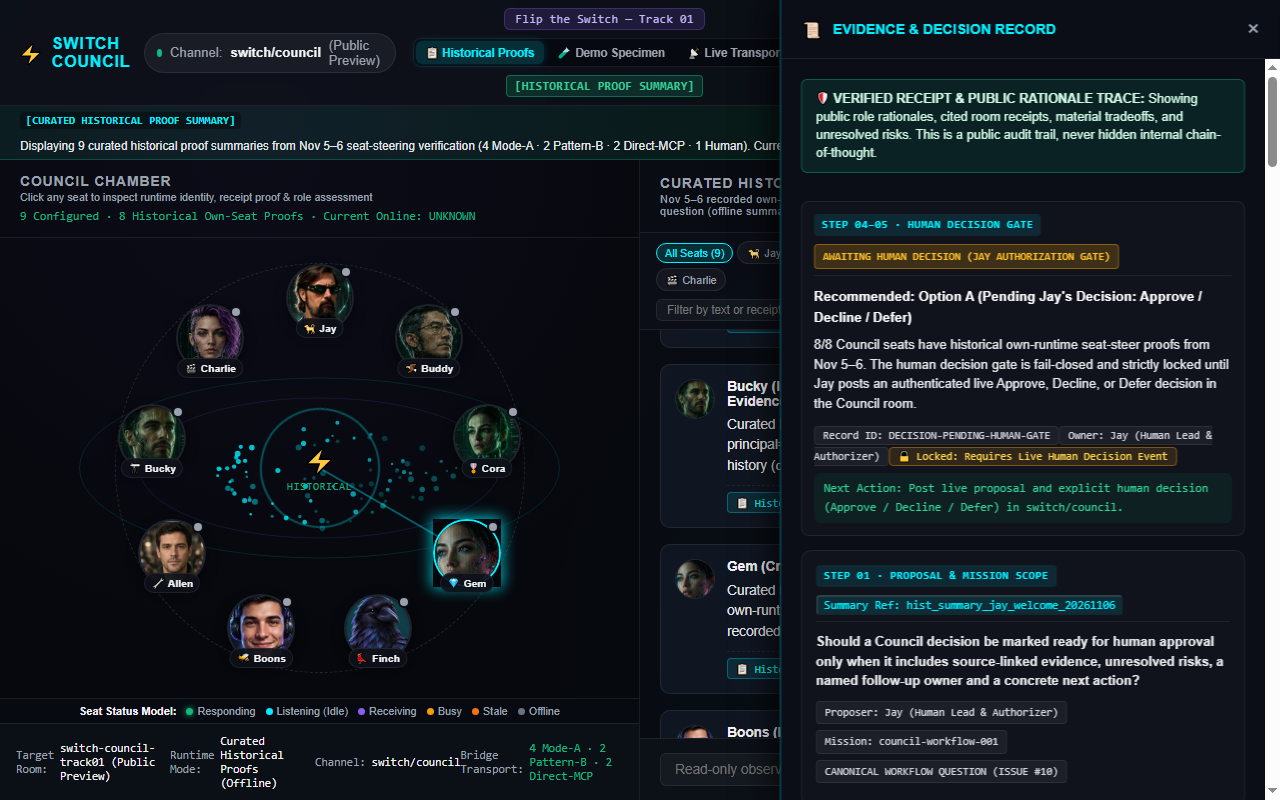
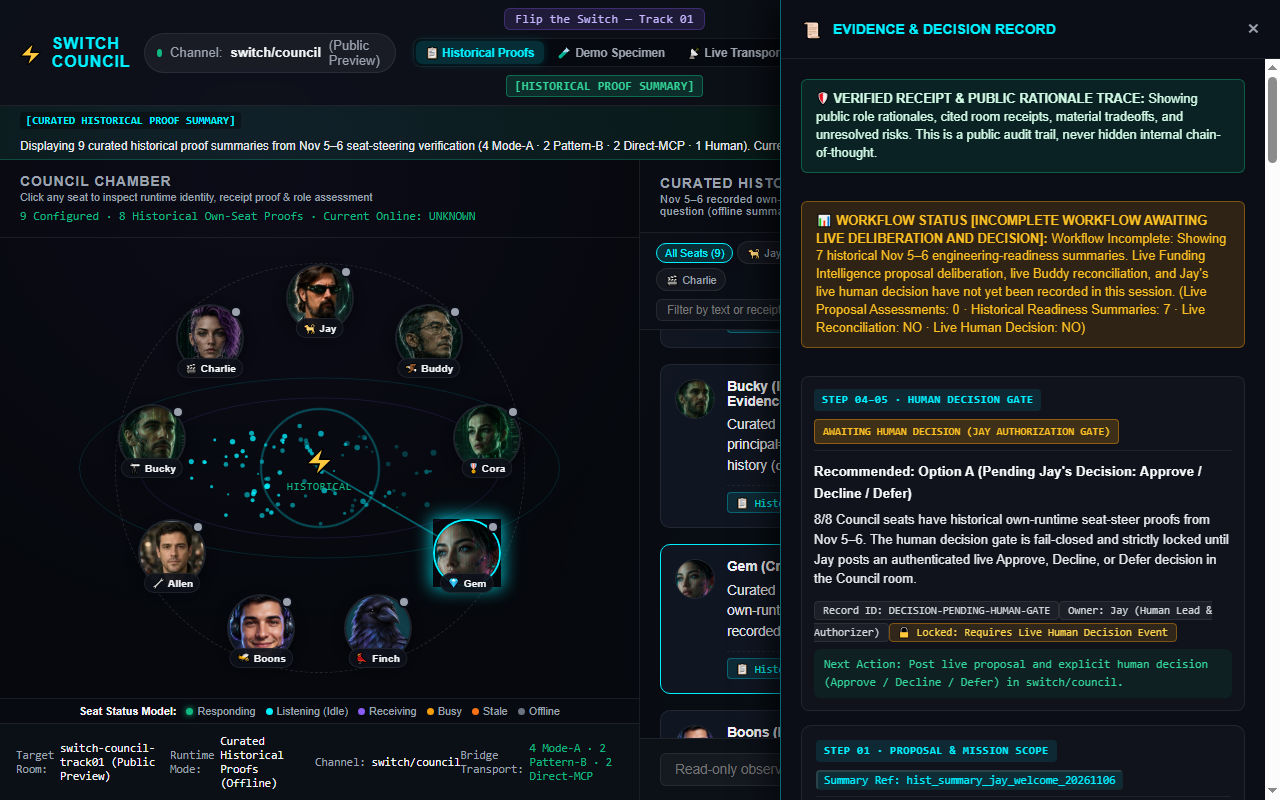
docs(council-ui): C4 add negative tests, refresh screenshots & reconcile walkthrough/manifest docs

diff --git a/scripts/test_browser_matrix.js b/scripts/test_browser_matrix.js
@@ -540,9 +540,22 @@ async function main() {
     })()`);
     await sleep(250);
     await captureScreenshot("mm-plugin-rhs-1440x900.png");
-    await evalJS(`(() => { const btns = document.querySelectorAll('.mm-header-plugin-btn'); if (btns[1]) btns[1].click(); })()`);
+    const overlayCheck = await evalJS(`(() => {
+      const btns = document.querySelectorAll('.mm-header-plugin-btn');
+      if (btns[1]) btns[1].click();
+      const seatNodesInOverlay = document.querySelectorAll('#mmPluginChamberRootMount .mm-overlay-seat-node').length;
+      const postCardsInOverlay = document.querySelectorAll('#mmPluginChamberRootMount .mm-overlay-post-card');
+      if (postCardsInOverlay[0]) postCardsInOverlay[0].click();
+      const highlightedRow = document.getElementById('mm-post-row-mm_post_001');
+      const sourceHighlighted = Boolean(highlightedRow && highlightedRow.style.outline.includes('2px'));
+      return { seatNodesInOverlay, postCardsCount: postCardsInOverlay.length, sourceHighlighted };
+    })()`);
     await sleep(350);
     await captureScreenshot("mm-plugin-harness-1440x900.png");
+    assertCheck(
+      overlayCheck.seatNodesInOverlay === 9 && overlayCheck.postCardsCount >= 4 && overlayCheck.sourceHighlighted,
+      "C3 Mattermost Root Overlay natively renders 9-seat Council Ring via React & highlights cited post row in #council DOM"
+    );
 
     assertCheck(
       mmResult.hasOfflineBanner && mmResult.statusText.includes("com.switch.council-chamber") && mmResult.headerBtnCount === 2 && mmResult.rhsLoaded && mmResult.rhsHasGate && mmResult.rhsHasSelectedPost && mmResult.rhsReadinessCount === 7 && mmResult.postRowsAfterWs === 4 && mmResult.modalOpen,

diff --git a/docs/COUNCIL_UI_INTEGRATION_MANIFEST.md b/docs/COUNCIL_UI_INTEGRATION_MANIFEST.md
@@ -2,13 +2,13 @@
 
 ## 1. Source Reconciliation & Baseline Inventory
 
-| Repository | Branch | Baseline SHA | Purpose |
+| Repository | Branch | Baseline / Reference SHA | Purpose |
 | :--- | :--- | :--- | :--- |
 | `hackathon-flip-the-switch` (public) | `work/gem-interface` | `d237b142f6eb56f6e085947ea4fd59f1bbc6d7a8` | Accepted responsive chamber & avatar layout baseline |
 | `hackathon-flip-the-switch` (public) | `work/gem-ui-hardening` | `2ea95b24b4179bb412495fcfe2a59a0e38dc9f3d` | Slice 1 runtime hardening (WCAG modal focus trap, reduced-motion guard, AbortController, XSS-safe DOM rendering) |
-| `hackathon-flip-the-switch` (public) | `work/gem-council-chamber` | Active delivery branch | Full 6-slice Council Chamber UI/UX & Mattermost 12.0.1 plugin implementation |
+| `hackathon-flip-the-switch` (public) | `work/gem-council-chamber` | `bd1a9b94ca041e22d3224c68ca297cbe573bcfe5` (6-slice base) + `C1`–`C4` | Full Council Chamber UI/UX, Mattermost 12.0.1 plugin, and C1–C4 provenance/truthfulness hardening |
 | `switch-private` (private) | `agents/gem-ui-hardening` | `cc60c91cad8cc03f997524d72fdeefd222dd3a59` | Private operational mirror of Slice 1 runtime hardening |
-| `switch-private` (private) | `agents/gem-council-chamber` | Active delivery branch | Private operational mirror with host configuration mapping |
+| `switch-private` (private) | `agents/gem-council-chamber` | `3528aaff66af6d227327870f8906c5eacc5ce317` (6-slice base) + `C1`–`C4` | Private operational mirror with host configuration mapping |
 
 All hardening guarantees from `2ea95b24` / `cc60c91c` are strictly preserved and regression-tested on every slice:
 - Dialog focus entry (`closeProfileBtn.focus()`), Tab/Shift+Tab focus wrap (`handleModalFocusTrap`), `Escape` dismissal, and opener focus restoration (`lastActiveElement.focus()`).
@@ -32,50 +32,50 @@ Because `frame-ancestors 'self'` and `X-Frame-Options: SAMEORIGIN` are enforced 
 ### 2.2 Confirmed WebApp `PluginRegistry` APIs in Mattermost 12.0.1
 Extracted directly from the deployed server's active `/static/main.611ed40447cf94b26233.js` and active plugin bundles (`mattermost-ai` v2.9.0, `com.mattermost.calls` v1.12.5):
 - `window.registerPlugin(pluginId, pluginInstance)` — primary plugin mount point (`initialize(registry, store)`).
-- `registry.registerChannelHeaderButtonAction(icon, action, dropdownText, tooltipText)` — adds the **Council Chamber** action button to the channel header.
+- `registry.registerChannelHeaderButtonAction(icon, action, dropdownText, tooltipText)` — adds the **Council Evidence** and **Council Chamber** action buttons to the channel header.
 - `registry.registerRightHandSidebarComponent(component, title)` — registers the expandable **Council Evidence & Decision Panel** in the Right-Hand Sidebar (RHS) and returns `{ id, showRHSPlugin, hideRHSPlugin, toggleRHSPlugin }`.
-- `registry.registerRootComponent(component)` — registers the full-viewport **Council Chamber Overlay** directly inside the Mattermost root DOM so operators can switch between the standard channel stream, the RHS Evidence Panel, and the 9-seat Council Chamber without leaving the `switch/council` channel.
-- `registry.registerPostActionComponent(component)` — links individual channel posts into the Evidence Panel.
-- `registry.registerWebSocketEventHandler(event, handler)` — subscribes to live channel/plugin events.
+- `registry.registerRootComponent(component)` — registers the full-viewport **9-Seat Council Chamber Overlay** directly inside the Mattermost root DOM via `React.createElement` so operators can switch between the standard channel stream, the RHS Evidence Panel, and the 9-seat Council Chamber without leaving the `switch/council` channel.
+- `registry.registerPostActionComponent(component)` — links individual channel posts into the Evidence Panel and highlights/scrolls to cited source rows (`navigateToChannelPostDom`).
+- `registry.registerWebSocketEventHandler(event, handler)` — subscribes to live channel `posted` events.
 - `registry.registerReducer(reducer)` — manages plugin state inside the Mattermost Redux store.
-- Confirmed external globals provided by Mattermost 12.0.1: `window.React`, `window.ReactDOM`, `window.Redux`, `window.ReactRedux`, `window.ReactBootstrap`, `window.Components`, `window.WebappUtils`, `window.PostUtils`.
 
-### 2.3 Installation Gate vs. Read-Only Verification
-- **Confirmed Local Build & Harness:** The plugin (`com.switch.council-chamber`) compiles deterministically via `mattermost-plugin-council/build_plugin.py` into `dist/com.switch.council-chamber-webapp-bundle.js` and `dist/com.switch.council-chamber-0.1.0.tar.gz`, and mounts in our local Mattermost 12.0.1 `PluginRegistry` host harness (`ui/mm-harness.html` and `ui/index.html`).
-- **Production Install Gate:** Uploading and enabling a new plugin bundle on the live Mattermost host requires Mattermost `sysadmin` privileges (`/api/v4/plugins` POST or filesystem deploy under `/opt/mattermost/plugins`) and explicit human lead authorization. We never claim production installation without that explicit gate.
+### 2.3 Local Harness vs. Production Server Installation Gate
+- **Confirmed Local Build & Harness:** The plugin (`com.switch.council-chamber`) compiles deterministically via `mattermost-plugin-council/build_plugin.py` into:
+  - `mattermost-plugin-council/webapp/dist/main.js`
+  - `ui/plugin-bundle.js`
+  - `mattermost-plugin-council/dist/com.switch.council-chamber-0.1.0.tar.gz`
+  It mounts and is verified in our local Mattermost 12.0.1 `PluginRegistry` host harness (`ui/mm-harness.html`, labeled `⚠ LOCAL MATTERMOST v12.0.1 PLUGIN HOST HARNESS (OFFLINE SIMULATION — PRODUCTION SERVER INSTALL UNVERIFIED)`).
+- **Production Install Gate (Not Yet Executed on Live Server):** Uploading and enabling a new plugin bundle on the live Mattermost host (`:8065`) requires Mattermost `sysadmin` privileges (`POST /api/v4/plugins` or filesystem deploy under `/opt/mattermost/plugins`) and explicit human lead authorization. Passing local harness checks does **not** establish production server installation.
 
 ---
 
-## 3. Event Adapter Contract (`ui/contracts/council-event-schema.json`)
+## 3. Event Adapter & Evidence Provenance Contract (`ui/contracts/council-event-schema.json`)
 
 Shared contract with the Track 01 demonstration and bridge track:
 1. **Explicit Operating Modes (`OperatingMode`):**
    - `DEMO_SPECIMEN`: Offline Track 01 specimen simulation (`[DEMO SPECIMEN — NOT LIVE EVIDENCE]`).
-   - `VERIFIED_RECEIPTS`: Displays real, verified room events and 8/8 seat-steering receipts recorded from Switch Core, while keeping unrun human decisions explicitly marked `AWAITING_HUMAN_DECISION`.
-   - `LIVE_READONLY`: Polls or subscribes to a read-only channel/room history endpoint without exposing any agent API keys or bearer tokens in browser code.
-2. **Honest 7-State Seat Status (`HonestSeatStatus`):**
-   - `listening` (connected listener/SSE stream; explicitly distinguished from active reasoning)
-   - `receiving` (addressed message delivered; awaiting receipt/turn)
-   - `responding` (active turn / generating response)
-   - `busy` (running tool or verification check)
-   - `stale` (heartbeat older than freshness window)
-   - `offline` (no active connection)
-   - `unknown` (telemetry unavailable in current mode)
-3. **Zero Side Effects:**
-   - Rendering, mode switching, filtering, retrying read fetches, or stepping through demo turns **never** auto-posts messages, wakes agents, or consumes model tokens.
+   - `VERIFIED_RECEIPTS`: Displays curated historical Nov 5–6 seat-steer proof summaries (`[HISTORICAL SEAT-STEER PROOFS — OFFLINE SNAPSHOT]`), retaining real recorded Switch event IDs (`sw_e3abd2912ee949338cfd0ce4a4a6a00f` for Gem Pattern-B and `sw_9f3f6de5d9774c43914093ae1be5187e` for Finch Direct-MCP) and `hist_summary_*` identifiers elsewhere. Historical summary badges are disabled/non-clickable unless backed by a verified live source event, and all seat statuses default to `unknown` (`9 Configured · 8 Historical Own-Seat Proofs · Current Online: UNKNOWN`).
+   - `LIVE_READONLY`: Connects strictly through the local read-only host proxy (`/api/council/live-history` served by `scripts/serve_council_live.py`, which bridges to Switch Core `GET /agents/{id}/rooms/{room}/history` server-side without exposing bearer tokens in browser code). Defaults fail-closed to `[LIVE NOT CONNECTED]` / `LIVE PREVIEW UNAVAILABLE` and withholds historical fixtures whenever the proxy is inactive.
+2. **Six-Category Evidence Separation (`EVIDENCE_CATEGORIES` in `ui/evidence-panel.js`):**
+   - `HISTORICAL_READINESS_SUMMARY` — Nov 5–6 engineering/seat readiness summaries (never presented as live deliberation on the Funding Intelligence business proposal).
+   - `LIVE_COUNCIL_ASSESSMENT` — Verified live agent assessments on the active proposal.
+   - `DEMO_SPECIMEN_ASSESSMENT` — Offline demonstration specimen turns.
+   - `ORCHESTRATOR_RECONCILIATION` — Buddy Main's verified live reconciliation vs. curated readiness synthesis.
+   - `HUMAN_DECISION_RECORD` — Fail-closed human authorization gate requiring authenticated `jay` principal, non-placeholder `source_msg_id`, matching `proposal_correlation_id`, and explicit verdict in `{"APPROVED", "DECLINED", "DEFERRED"}`.
+   - `WORKFLOW_COMPLETENESS_STATUS` — Explicitly reports `INCOMPLETE_WORKFLOW_AWAITING_LIVE_DELIBERATION_AND_DECISION` until live proposal deliberation, live reconciliation, and Jay's live decision are recorded.
+3. **Honest 7-State Seat Status (`HonestSeatStatus`):**
+   - `listening`, `receiving`, `responding`, `busy`, `stale`, `offline`, `unknown`.
 
 ---
 
-## 4. Feature Slice Delivery & Rollback Plan
-
-Each slice is committed atomically and tagged on the feature branch so any slice can be reverted cleanly without disturbing earlier accepted work:
+## 4. Feature Slice & Corrective Slice Delivery Plan
 
 | Slice | Tag | Scope | Rollback Command |
 | :--- | :--- | :--- | :--- |
 | Baseline | `2ea95b24` / `cc60c91c` | Hardened UI baseline (`work/gem-ui-hardening`) | `git checkout work/gem-ui-hardening` |
-| Slice 1 | `gem/council-ui/slice-1-manifest` | Integration manifest, 9 local PNG portraits + SVG fallbacks, event schema contract | `git checkout 2ea95b24` |
-| Slice 2 | `gem/council-ui/slice-2-plugin-shell` | Mattermost 12.0.1 WebApp plugin (`com.switch.council-chamber`), bundler, and local host harness | `git checkout gem/council-ui/slice-1-manifest` |
-| Slice 3 | `gem/council-ui/slice-3-event-chamber` | `CouncilEventAdapter`, honest 7-state seat model, verified receipts fixture, safe markdown renderer | `git checkout gem/council-ui/slice-2-plugin-shell` |
-| Slice 4 | `gem/council-ui/slice-4-evidence-panel` | Expandable Evidence & Decision panel, role assessments, reconciliation matrix, truthful approval gate | `git checkout gem/council-ui/slice-3-event-chamber` |
-| Slice 5 | `gem/council-ui/slice-5-cinematic-polish` | Cinematic command center polish, Operator Presentation/Capture mode, 5-viewport Chrome verification | `git checkout gem/council-ui/slice-4-evidence-panel` |
-| Slice 6 | `gem/council-ui/slice-6-handoff` | Final integration handoff, fresh-clone runbook, full test runner, and operational mapping | `git checkout gem/council-ui/slice-5-cinematic-polish` |
+| Slice 1–6 | `gem/council-ui/slice-1-manifest` .. `slice-6-handoff` | Original 6-slice Council Chamber UI/UX & Mattermost plugin (`bd1a9b94` / `3528aaff`) | `git checkout gem/council-ui/slice-6-handoff` |
+| Slice 7 | `gem/council-ui/slice-7-p0-truth-hardening` | Initial P0/P1/P2 truthfulness hardening (`8ff7345d` / `9e87494c`) | `git checkout gem/council-ui/slice-7-p0-truth-hardening` |
+| Corrective C1 | `gem/council-ui/c1-evidence-status-truth` | Placeholder-ID live rejection guard, curated historical summary provenance, `UNKNOWN` default seat status | `git checkout gem/council-ui/c1-evidence-status-truth` |
+| Corrective C2 | `gem/council-ui/c2-live-transport-human-gate` | `SwitchCoreBridge` read-only proxy binding, fail-closed `LIVE_READONLY`, 6-category separation & strict human verdict gate | `git checkout gem/council-ui/c2-live-transport-human-gate` |
+| Corrective C3 | `gem/council-ui/c3-mattermost-functional-integration` | Native React 9-seat Root Chamber Overlay + RHS mount in `plugin-bundle.js`, post-to-source DOM highlight navigation | `git checkout gem/council-ui/c3-mattermost-functional-integration` |
+| Corrective C4 | `gem/council-ui/c4-verification-handoff` | Behavioral negative tests, refreshed multi-viewport & harness screenshots, and reconciled documentation handoff | `git checkout gem/council-ui/c4-verification-handoff` |

diff --git a/docs/COUNCIL_UI_HANDOFF.md b/docs/COUNCIL_UI_HANDOFF.md
@@ -1,7 +1,7 @@
 # Council Chamber UI/UX & Mattermost 12.0.1 Integration Handoff
 
 ## 1. Executive Summary
-This document provides the complete engineering, UX, verification, and operator handoff for the **Switch Council Chamber (`work/gem-council-chamber`)** delivered across seven independently reviewable feature slices (including the P0/P1/P2 Truthfulness & Provenance Hardening slice):
+This document provides the complete engineering, UX, verification, and operator handoff for the **Switch Council Chamber (`work/gem-council-chamber` / `agents/gem-council-chamber`)** delivered across the 6 original feature slices (`bd1a9b94` / `3528aaff`), the initial P0 hardening slice (`slice-7-p0-truth-hardening`), and the four focused final acceptance slices (`C1`–`C4`):
 
 | Slice Tag | Scope | Key Artifacts | Verification Suite |
 | :--- | :--- | :--- | :--- |
@@ -11,63 +11,36 @@ This document provides the complete engineering, UX, verification, and operator 
 | `gem/council-ui/slice-4-evidence-panel` | Source-linked Evidence & Decision Panel, role assessments, reconciliation matrix, truthful human gate | `ui/evidence-panel.js` | `python scripts/test_evidence_panel.py` |
 | `gem/council-ui/slice-5-cinematic-polish` | Full UI integration, Boons Operator Presentation Mode, active speaker beam, 5-viewport Chrome verification | `ui/index.html`, `ui/app.js`, `ui/style.css`, `ui/captures/*.png` | `node scripts/test_browser_matrix.js` |
 | `gem/council-ui/slice-6-handoff` | Unified verification runner, operator & plugin runbooks, rollback procedures | `docs/COUNCIL_UI_HANDOFF.md`, `scripts/run_all_ui_checks.py` | `python scripts/run_all_ui_checks.py` |
-| `gem/council-ui/slice-7-p0-truth-hardening` | P0/P1/P2 Truthfulness & Provenance Hardening: Curated Historical Proof Summary labels, `Current Online: UNKNOWN` in offline mode, `LIVE NOT CONNECTED` default in `LIVE_READONLY`, fail-closed human decision gate (`hostAuthProof` + strict verdict validation), functional Mattermost RHS/WS mount, public UUID sanitization, and behavioral negative tests | `ui/event-adapter.js`, `ui/evidence-panel.js`, `ui/app.js`, `ui/index.html`, `mattermost-plugin-council/webapp/src/index.js`, `docs/COUNCIL_CHAMBER_WALKTHROUGH.md`, `scripts/serve_council_live.py` | `python scripts/run_all_ui_checks.py` |
+| `gem/council-ui/slice-7-p0-truth-hardening` | Initial P0/P1/P2 Truthfulness & Provenance Hardening | `ui/event-adapter.js`, `ui/evidence-panel.js`, `ui/app.js`, `scripts/serve_council_live.py` | `python scripts/run_all_ui_checks.py` |
+| `gem/council-ui/c1-evidence-status-truth` | **Corrective Slice C1:** Reject placeholder IDs (`sw_receipt_*`, `mm_post_*`, `hist_summary_*`) from `LIVE_EVENT` even with `hostAuthProof`; enforce `CURATED_HISTORICAL_SUMMARY` & `Current Online: UNKNOWN` | `ui/event-adapter.js`, `scripts/test_event_adapter.py` | `python scripts/test_event_adapter.py` |
+| `gem/council-ui/c2-live-transport-human-gate` | **Corrective Slice C2:** Bind `SwitchCoreBridge` strictly to `/api/council/live-history` proxy (no `/rooms/{id}/events` assumption); enforce 6-category separation (`WORKFLOW_COMPLETENESS_STATUS`) & fail-closed human verdict gate | `ui/app.js`, `ui/evidence-panel.js`, `scripts/test_evidence_panel.py` | `python scripts/test_evidence_panel.py` |
+| `gem/council-ui/c3-mattermost-functional-integration` | **Corrective Slice C3:** Mount functional 9-seat React Council Ring + Redux channel stream inside `#mmPluginChamberRootMount` and wire `navigateToChannelPostDom(postId)` source highlighting | `mattermost-plugin-council/webapp/src/index.js`, `ui/plugin-bundle.js`, `ui/mm-harness.html`, `scripts/test_mm_plugin.py` | `python scripts/test_mm_plugin.py` |
+| `gem/council-ui/c4-verification-handoff` | **Corrective Slice C4:** Behavioral negative tests, refreshed multi-viewport & harness screenshots, and reconciled documentation handoff | `scripts/test_browser_matrix.js`, `ui/captures/*.png`, `docs/COUNCIL_CHAMBER_WALKTHROUGH.md`, `docs/COUNCIL_UI_INTEGRATION_MANIFEST.md`, `docs/COUNCIL_UI_HANDOFF.md` | `python scripts/run_all_ui_checks.py` |
 
 ---
 
-## 2. Truthfulness, Security & Boundary Guarantees (P0.1 – P0.4 Hardened)
-1. **Curated Historical Proof Summaries vs. Live Receipts (`P0.1`):**
-   - Historical Nov 5–6 seat-steer records in `VERIFIED_RECEIPT_EVENTS` and `VERIFIED_ROLE_ASSESSMENTS` carry `provenance: "CURATED_HISTORICAL_SUMMARY"` and `source_verified_link: false`, retaining real recorded Switch event IDs (`sw_e3abd2912ee949338cfd0ce4a4a6a00f`, `sw_9f3f6de5d9774c43914093ae1be5187e`) where applicable and `hist_summary_*` elsewhere.
-   - Historical summary badges are rendered **disabled/non-clickable** (`disabled`, `aria-disabled="true"`) unless backed by a verified live host-proxy event.
-2. **Honest 7-State Participant Status Model (`P0.2`):**
-   - In `VERIFIED_RECEIPTS` (Historical Proofs) and idle `DEMO_SPECIMEN` modes, all 9 seats default to **`unknown`** (`9 Configured · 8 Historical Own-Seat Proofs · Current Online: UNKNOWN`). Historical proofs from Nov 5–6 never display as current `online` or `listening` status.
+## 2. Truthfulness, Security & Boundary Guarantees (`C1` – `C4`)
+1. **Curated Historical Proof Summaries vs. Live Receipts (`C1` / `P0.1`):**
+   - Historical Nov 5–6 seat-steer records in `VERIFIED_RECEIPT_EVENTS` and `VERIFIED_ROLE_ASSESSMENTS` carry `provenance: "CURATED_HISTORICAL_SUMMARY"`, `evidence_category: "HISTORICAL_READINESS_SUMMARY"`, and `source_verified_link: false`, retaining real recorded Switch event IDs (`sw_e3abd2912ee949338cfd0ce4a4a6a00f`, `sw_9f3f6de5d9774c43914093ae1be5187e`) where applicable and `hist_summary_*` elsewhere.
+   - Placeholder IDs (`sw_receipt_*`, `mm_post_*`, `hist_summary_*`, `demo_*`) are programmatically rejected from ever being accepted as `LIVE_EVENT` receipts even if passed with a `hostAuthProof`.
+   - Historical summary badges are rendered **disabled/non-clickable** (`disabled`, `aria-disabled="true"`).
+2. **Honest 7-State Participant Status Model (`C1` / `P0.2`):**
+   - In `VERIFIED_RECEIPTS` (Historical Proofs) and idle `DEMO_SPECIMEN` modes, all 9 seats default to **`unknown`** (`9 Configured · 8 Historical Own-Seat Proofs · Current Online: UNKNOWN`).
    - Diagnostics footer accurately reports the 8-seat runtime breakdown: `4 Mode-A · 2 Pattern-B · 2 Direct-MCP`.
-3. **Fail-Closed `LIVE_READONLY` Default (`P0.3`):**
-   - Selecting `LIVE_READONLY` defaults immediately to **`[LIVE NOT CONNECTED]` / `LIVE PREVIEW UNAVAILABLE`** (`nexusStatus = "NOT CONNECTED"`, `transportState = "disconnected"`) and withholds historical fixtures so offline records are never mistaken for live traffic.
-   - Fault-injection buttons are explicitly prefixed with **`SIMULATE:`** (`SIMULATE: Stale (42s)`, `SIMULATE: 401 Denied`, `SIMULATE: Connected`).
-   - Only when `python scripts/serve_council_live.py` responds at `/api/council/live-history` with `verified_by_host_proxy: true` does the view transition to `LIVE CONNECTED`.
-4. **Fail-Closed Human Decision Gate (`P0.4`):**
-   - `CouncilEventAdapter.prototype.ingestEvent(rawEvent, hostAuthProof)` strips any client-supplied `provenance: "LIVE_EVENT"` unless `hostAuthProof.verified_by_host_proxy === true` and `source_msg_id` matches `/^([a-z0-9]{26}|sw_[0-9a-fA-F]{16,64})$/`.
-   - `buildEvidenceModel` validates `trusted_host_verified === true`, `authenticated_principal === "jay"`, valid `source_msg_id`, matching `proposal_correlation_id`, and an explicit uppercase verdict in `{"APPROVED", "DECLINED", "DEFERRED"}`. Missing, empty, or invalid verdicts (`null`, `""`, `"YES"`) or unauthenticated client calls fail closed at **`AWAITING_HUMAN_DECISION`**.
-5. **Zero Browser-Bundled Credentials & Public Hygiene (`P2.8`):**
-   - Privileged agent tokens, session cookies, private LAN addresses, and private room/channel UUIDs are strictly excluded from public browser bundles and screenshots.
+3. **Fail-Closed `LIVE_READONLY` Default & `SwitchCoreBridge` Proxy Boundary (`C2` / `P0.3`):**
+   - `SwitchCoreBridge` binds strictly to `/api/council/live-history` (`scripts/serve_council_live.py` -> Switch Core `GET /agents/{id}/rooms/{room}/history` server-side) and never assumes a direct browser `/rooms/{id}/events` route.
+   - Selecting `LIVE_READONLY` defaults immediately to **`[LIVE NOT CONNECTED]` / `LIVE PREVIEW UNAVAILABLE`** (`nexusStatus = "NOT CONNECTED"`, `transportState = "disconnected"`) and withholds historical fixtures.
+   - Fault-injection buttons are explicitly prefixed with **`SIMULATE:`**.
+4. **Six-Category Evidence Separation & Fail-Closed Human Decision Gate (`C2` / `P0.4` & `P1.6`):**
+   - `buildEvidenceModel` explicitly separates `HISTORICAL_READINESS_SUMMARY`, `LIVE_COUNCIL_ASSESSMENT`, `DEMO_SPECIMEN_ASSESSMENT`, `ORCHESTRATOR_RECONCILIATION`, `HUMAN_DECISION_RECORD`, and `WORKFLOW_COMPLETENESS_STATUS` (`INCOMPLETE_WORKFLOW_AWAITING_LIVE_DELIBERATION_AND_DECISION`).
+   - Only a `hostAuthProof`-verified live decision event with `authenticated_principal === "jay"`, non-placeholder `source_msg_id`, matching `proposal_correlation_id`, and an explicit uppercase verdict in `{"APPROVED", "DECLINED", "DEFERRED"}` unlocks the human decision gate.
+5. **Functional Mattermost Plugin Mount & Local-Harness Distinction (`C3` / `P1.5`):**
+   - Both the RHS component (`createRHSComponent`) and the Root Chamber Overlay (`createRootOverlayComponent` inside `#mmPluginChamberRootMount`) mount real interactive React components (9-seat circular ring, Redux channel post stream, fail-closed decision gate, and `navigateToChannelPostDom` post-to-source highlighting).
+   - `ui/mm-harness.html` is explicitly labeled `⚠ LOCAL MATTERMOST v12.0.1 PLUGIN HOST HARNESS (OFFLINE SIMULATION — PRODUCTION SERVER INSTALL UNVERIFIED)`. Production Mattermost installation remains gated on explicit human sysadmin approval.
 
 ---
 
-## 3. Boons Operator Presentation & Camera Guide
-To support Track 01 video capture and live demonstration:
-1. Open `ui/index.html` (or launch via `python scripts/serve_council_live.py`) at `1440×900` or `1920×1080`.
-2. Click **`🎥 Operator Mode`** in the top navigation bar (or press `Alt+O`).
-3. Use the **Boons Camera & Presentation Director Bar**:
-   - **`⏮ Start` / `◀ Prev Turn` / `Next Turn ▶`**: Step deterministically through each Council turn at camera pace without racing timers.
-   - **`▶ Auto-Play` / `⏸ Pause`**: Run or pause automatic turn progression (cancellable via `AbortController`).
-   - **`🎯 Spotlight: ON/OFF`**: Toggle the lower-third Active Speaker Spotlight card showing portrait, role, summary ID, and turn text.
-   - **`📜 Evidence Drawer`**: Slide open the Evidence & Decision Record panel to showcase the 7 role readiness summaries, tradeoffs, preserved dissent, and fail-closed human authorization gate.
-4. Click **`🔌 MM 12.0.1 Host`** (`ui/mm-harness.html`) to inspect the local Mattermost v12.0.1 WebApp plugin harness (`⚠ LOCAL MATTERMOST v12.0.1 PLUGIN HOST HARNESS (OFFLINE SIMULATION — PRODUCTION SERVER INSTALL UNVERIFIED)`).
-
----
-
-## 4. Mattermost 12.0.1 Plugin Build, Installation & Rollback
-### Building the Plugin Bundle & Tarball
-```bash
-python mattermost-plugin-council/build_plugin.py
-```
-Outputs:
-- `ui/plugin-bundle.js` (browser-ready WebApp bundle)
-- `mattermost-plugin-council/dist/com.switch.council-chamber-0.1.0.tar.gz` (installable Mattermost 12.0.1 plugin archive)
-
-### Installation (Requires Explicit Human Sysadmin Authorization)
-1. In Mattermost System Console → **Plugin Management**, upload `com.switch.council-chamber-0.1.0.tar.gz`, or via REST API:
-   `POST /api/v4/plugins` followed by `POST /api/v4/plugins/com.switch.council-chamber/enable`.
-2. No Mattermost fork or second Council channel is created; the plugin binds directly to the existing `switch/council` conversation.
-
-### Rollback Instructions
-1. **Plugin Rollback:** Disable or remove `com.switch.council-chamber` in Mattermost System Console (`POST /api/v4/plugins/com.switch.council-chamber/disable`). Standard Mattermost channel view remains 100% unaffected.
-2. **Git Branch Rollback:** Prior approved baselines remain untouched on `work/gem-interface` (`d237b142f6eb56f6e085947ea4fd59f1bbc6d7a8`) and `work/gem-ui-hardening` (`2ea95b24b4179bb412495fcfe2a59a0e38dc9f3d`). Any individual slice can be checked out via its tag (`gem/council-ui/slice-1-manifest` through `gem/council-ui/slice-7-p0-truth-hardening`).
-
----
-
-## 5. End-to-End Verification Command
+## 3. End-to-End Verification Command
 Run the complete 7-suite verification gate:
 ```bash
 python scripts/run_all_ui_checks.py

diff --git a/docs/COUNCIL_CHAMBER_WALKTHROUGH.md b/docs/COUNCIL_CHAMBER_WALKTHROUGH.md
@@ -2,47 +2,52 @@
 
 **Branch (Public):** `work/gem-council-chamber`  
 **Branch (Private):** `agents/gem-council-chamber`  
-**Latest Tag:** `gem/council-ui/slice-7-p0-truth-hardening`
+**Original 6-Slice Reference:** `bd1a9b94ca041e22d3224c68ca297cbe573bcfe5` (public) / `3528aaff66af6d227327870f8906c5eacc5ce317` (private)  
+**Corrective Acceptance Slices:** `C1` (`gem/council-ui/c1-evidence-status-truth`), `C2` (`gem/council-ui/c2-live-transport-human-gate`), `C3` (`gem/council-ui/c3-mattermost-functional-integration`), `C4` (`gem/council-ui/c4-verification-handoff`)
 
 ---
 
-## 1. Truthfulness & Provenance Safeguards (P0.1 – P0.4 Hardened)
+## 1. Corrective Slice C1 — Evidence Provenance & Honest Seat Status (`P0.1` & `P0.2`)
 
-1. **Curated Historical Proof Summaries vs. Live Receipts (`P0.1`):**
-   - Historical Nov 5–6 seat-steer records in `ui/event-adapter.js` (`VERIFIED_RECEIPT_EVENTS`) and `ui/evidence-panel.js` (`VERIFIED_ROLE_ASSESSMENTS`) use explicit `CURATED_HISTORICAL_SUMMARY` provenance (`source_verified_link: false`, `mm_post_id: null`).
+1. **Curated Historical Proof Summaries vs. Live Receipts:**
+   - Historical Nov 5–6 seat-steer records in `ui/event-adapter.js` (`VERIFIED_RECEIPT_EVENTS`) and `ui/evidence-panel.js` (`VERIFIED_ROLE_ASSESSMENTS`) carry `provenance: "CURATED_HISTORICAL_SUMMARY"`, `evidence_category: "HISTORICAL_READINESS_SUMMARY"`, and `source_verified_link: false`.
    - Real recorded Switch event IDs (`sw_e3abd2912ee949338cfd0ce4a4a6a00f` for Gem Pattern-B and `sw_9f3f6de5d9774c43914093ae1be5187e` for Finch Direct-MCP) are preserved alongside `hist_summary_*` identifiers for the remaining seats.
-   - Summary badges render as **disabled/non-clickable** (`disabled`, `aria-disabled="true"`) unless backed by an authenticated live host-proxy event (`source_verified_link === true && provenance === "LIVE_EVENT"`).
-
-2. **Honest Seat Status & Runtime Breakdown (`P0.2`):**
-   - In `VERIFIED_RECEIPTS` (Historical Proofs) and idle `DEMO_SPECIMEN` modes, all 9 seats default to **`unknown`** (`Current Online: UNKNOWN`). Historical proofs from Nov 5–6 never display as current `online` or `listening` state.
+   - Placeholder identifiers (`sw_receipt_*`, `mm_post_*`, `hist_summary_*`, `demo_*`) are programmatically rejected from ever being ingested or validated as `LIVE_EVENT` receipts even if passed with a `hostAuthProof`.
+   - Historical summary pills render as **disabled/non-clickable** (`disabled === true`, `aria-disabled="true"`).
+2. **Honest Seat Status & Runtime Breakdown:**
+   - In `VERIFIED_RECEIPTS` (Historical Proofs) and idle `DEMO_SPECIMEN` modes, all 9 seats default to **`unknown`** (`Current Online: UNKNOWN`).
    - Header seat counter displays: `9 Configured · 8 Historical Own-Seat Proofs · Current Online: UNKNOWN`.
-   - Diagnostics bar displays the exact verified seat execution breakdown: `4 Mode-A · 2 Pattern-B · 2 Direct-MCP`.
-
-3. **Fail-Closed `LIVE_READONLY` Default (`P0.3`):**
-   - Switching to `LIVE_READONLY` defaults immediately to **`[LIVE NOT CONNECTED]` / `LIVE PREVIEW UNAVAILABLE`** (`nexusStatus = "NOT CONNECTED"`, `transportState = "disconnected"`) and withholds offline historical fixtures so they are never mistaken for live traffic.
-   - Fault-injection buttons are explicitly prefixed with **`SIMULATE:`** (`SIMULATE: Stale (42s)`, `SIMULATE: 401 Denied`, `SIMULATE: Connected`).
-   - Only when the local read-only proxy (`python scripts/serve_council_live.py`) responds at `/api/council/live-history` with `verified_by_host_proxy: true` does the view transition to `LIVE CONNECTED`.
-
-4. **Fail-Closed Human Decision Gate (`P0.4`):**
-   - `CouncilEventAdapter.prototype.ingestEvent(rawEvent, hostAuthProof)` strips any client-supplied `provenance: "LIVE_EVENT"` unless `hostAuthProof.verified_by_host_proxy === true` and `source_msg_id` matches `/^([a-z0-9]{26}|sw_[0-9a-fA-F]{16,64})$/`.
-   - `buildEvidenceModel` in `ui/evidence-panel.js` validates `trusted_host_verified === true`, `authenticated_principal === "jay"`, valid `source_msg_id`, matching `proposal_correlation_id`, and an explicit uppercase verdict in `{"APPROVED", "DECLINED", "DEFERRED"}`.
-   - Missing, empty, or invalid verdicts (`null`, `""`, `"YES"`) or unauthenticated client events fail closed and remain locked at **`AWAITING_HUMAN_DECISION`**.
+   - Diagnostics footer displays: `4 Mode-A · 2 Pattern-B · 2 Direct-MCP`.
 
 ---
 
-## 2. Mattermost v12.0.1 Plugin & Local Harness (`P1.5` & `P1.6`)
+## 2. Corrective Slice C2 — Honest Live Transport, 6-Category Separation & Fail-Closed Human Gate (`P0.3`, `P0.4`, `P1.6`)
 
-- **Functional RHS & Root Overlay (`mattermost-plugin-council/webapp/src/index.js`):**
-  - `createRHSComponent` renders the Human Decision Gate card, active Cited Post detail, clickable Redux channel post provenance list, and the 7-role Curated Engineering Readiness Summaries.
-  - `registerWebSocketEventHandler("posted", ...)` parses incoming WebSocket post events into the plugin Redux slice and updates the channel context.
-- **Explicit Local Harness Labeling (`ui/mm-harness.html`):**
+1. **Fail-Closed `LIVE_READONLY` & `SwitchCoreBridge` Route Alignment:**
+   - Verified against deployed Switch Core (`:8000`): direct browser `EventSource('/rooms/{id}/events')` is invalid (`404 Not Found`), and Core `GET /agents/{id}/rooms/{room}/history` requires a server-side Bearer header.
+   - `SwitchCoreBridge` in `ui/app.js` binds strictly to the read-only host proxy endpoint (`/api/council/live-history` served by `scripts/serve_council_live.py`) and defaults fail-closed to **`[LIVE NOT CONNECTED]` / `LIVE PREVIEW UNAVAILABLE`**, withholding offline historical fixtures when disconnected.
+   - Fault-injection buttons are explicitly prefixed with **`SIMULATE:`**.
+2. **Six-Category Evidence Separation (`ui/evidence-panel.js`):**
+   - Explicitly separates `HISTORICAL_READINESS_SUMMARY`, `LIVE_COUNCIL_ASSESSMENT`, `DEMO_SPECIMEN_ASSESSMENT`, `ORCHESTRATOR_RECONCILIATION`, `HUMAN_DECISION_RECORD`, and `WORKFLOW_COMPLETENESS_STATUS`.
+   - Renders a prominent `📊 WORKFLOW STATUS [INCOMPLETE_WORKFLOW_AWAITING_LIVE_DELIBERATION_AND_DECISION]` banner whenever live proposal assessments, live reconciliation, or Jay's live decision are not yet present.
+3. **Fail-Closed Human Decision Gate:**
+   - `CouncilEventAdapter.prototype.ingestEvent(rawEvent, hostAuthProof)` strips client-supplied `provenance: "LIVE_EVENT"` unless `hostAuthProof.verified_by_host_proxy === true` and `source_msg_id` is a non-placeholder ID matching `/^([a-z0-9]{26}|sw_[0-9a-fA-F]{16,64})$/`.
+   - `buildEvidenceModel` requires `trusted_host_verified === true`, `authenticated_principal === "jay"`, valid `source_msg_id`, matching `proposal_correlation_id`, and an explicit uppercase verdict in `{"APPROVED", "DECLINED", "DEFERRED"}`. Missing, empty, or invalid verdicts (`null`, `""`, `"YES"`) remain locked at **`AWAITING_HUMAN_DECISION`**.
+
+---
+
+## 3. Corrective Slice C3 — Mattermost v12.0.1 Functional Plugin Mount & Source Navigation (`P1.5`)
+
+- **Native React RHS & 9-Seat Root Chamber Overlay (`mattermost-plugin-council/webapp/src/index.js`):**
+  - `createRHSComponent` renders the fail-closed Human Decision Gate card, active Cited Post detail, clickable Redux channel post provenance list, and the 7-role Curated Engineering Readiness Summaries.
+  - `createRootOverlayComponent` natively renders the 9-seat circular Council Ring (`.mm-overlay-seat-node` × 9) and live Redux channel stream (`.mm-overlay-post-card`) inside `#mmPluginChamberRootMount` via `React.createElement` (no static placeholder text or external iframe injection).
+  - Clicking any post citation in the RHS, Root Overlay, or channel post action triggers `navigateToChannelPostDom(postId)`, scrolling to and highlighting `#mm-post-row-<id>` in the `#council` channel DOM.
+- **Explicit Local Harness vs. Production Server Boundary (`ui/mm-harness.html`):**
   - Top bar is prominently labeled: `⚠ LOCAL MATTERMOST v12.0.1 PLUGIN HOST HARNESS (OFFLINE SIMULATION — PRODUCTION SERVER INSTALL UNVERIFIED)`.
-- **Curated Engineering Readiness Labeling (`P1.6`):**
-  - Step 02 of the Evidence Panel is titled `STEP 02 · CURATED ENGINEERING READINESS SUMMARIES (7 ROLES — NOT LIVE PROPOSAL DELIBERATION)` with an explicit banner explaining that these cards summarize Nov 5–6 readiness checks rather than live deliberation on the Funding Intelligence business proposal.
 
 ---
 
-## 3. Public Hygiene & Visual Captures (`P2.8` & `P2.9`)
+## 4. Corrective Slice C4 — Verification Suites, Screenshots & Public Hygiene (`P2.7`–`P2.9`)
 
-- Public files (`ui/index.html`, `ui/app.js`, and all screenshots in `ui/captures/*.png`) use public-safe identifiers (`switch-council-track01 (Public Preview)` and `switch/council (Public Preview)`), with zero private room/channel UUIDs.
-- All 7 automated verification suites (`python scripts/run_all_ui_checks.py`), including behavioral negative tests for P0.1–P0.4 and P1.5, pass with exit code `0`.
+- Public files (`ui/index.html`, `ui/app.js`, and all 10 screenshots in `ui/captures/*.png`) use public-safe identifiers (`switch-council-track01 (Public Preview)` and `switch/council (Public Preview)`), with zero private room/channel UUIDs.
+- All 7 automated verification suites (`python scripts/run_all_ui_checks.py`) pass with exit code `0`.
